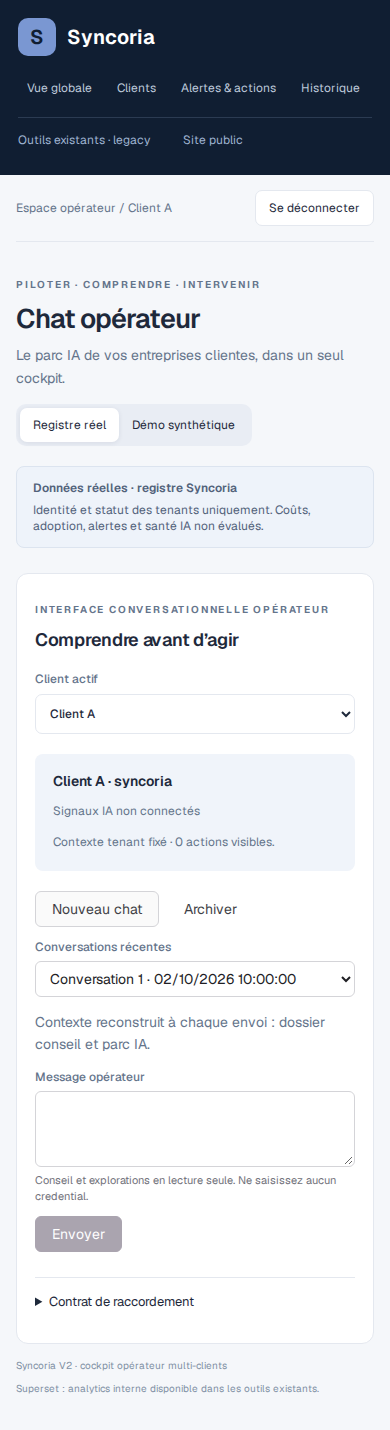
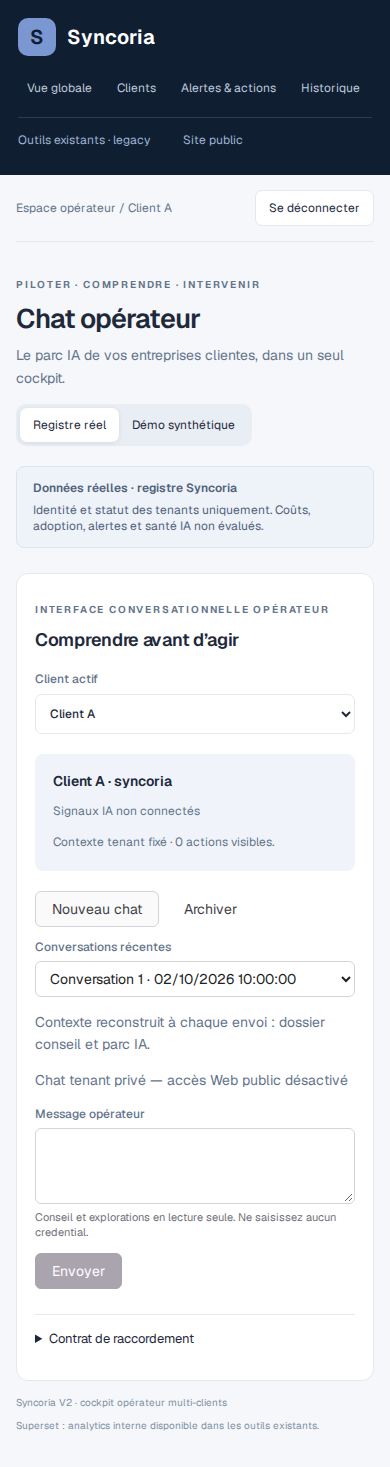
fix: require private tenant chat privacy events

diff --git a/tests/browser/operatorChat.spec.ts b/tests/browser/operatorChat.spec.ts
@@ -31,6 +31,7 @@ function message(role = 'assistant', content = 'Conseil visible', tenant = a) {
 }
 async function connect(page: Page) {
   const state = {
+    publicPrivacy: false,
     foreign: false,
     error: false,
     expired: false,
@@ -111,7 +112,10 @@ async function connect(page: Page) {
             label: 'Exécution sandbox',
             status: 'completed',
           },
-          { type: 'privacy_state_changed', state: 'private' },
+          {
+            type: 'privacy_state_changed',
+            state: state.publicPrivacy ? 'public' : 'private',
+          },
           ...(!state.error && !state.cancel
             ? [
                 {
@@ -146,7 +150,9 @@ async function connect(page: Page) {
     return route.fulfill({ status: 404, json: {} })
   })
   await page.goto('/')
-  await page.getByRole('button', { name: 'Chat opérateur', exact: true }).click()
+  await page
+    .getByRole('button', { name: 'Chat opérateur', exact: true })
+    .click()
   await page.getByLabel('Client actif').selectOption(a)
   return state
 }
@@ -158,6 +164,10 @@ test('new thread, send, confirmed tools, final, resume and archive', async ({
   await expect(
     page.getByText('Contexte tenant fixé', { exact: false }),
   ).toBeVisible()
+  await expect(
+    page.getByText('Chat tenant privé — accès Web public désactivé'),
+  ).toBeVisible()
+  await expect(page.getByText('Recherche publique disponible')).toHaveCount(0)
   await page.getByLabel('Message opérateur').fill('Prépare le rendez-vous')
   await page.getByRole('button', { name: 'Envoyer', exact: true }).click()
   await expect(page.getByText('Conseil visible', { exact: true })).toBeVisible()
@@ -167,11 +177,18 @@ test('new thread, send, confirmed tools, final, resume and archive', async ({
   ).toBeVisible()
   await expect(page.getByText(/2 intégrations disponibles/)).toBeVisible()
   await mkdir('docs/screenshots/operator-chat', { recursive: true })
-  await page.screenshot({ path: 'docs/screenshots/operator-chat/chat-desktop.png', fullPage: true })
+  await page.screenshot({
+    path: 'docs/screenshots/operator-chat/chat-desktop.png',
+    fullPage: true,
+  })
   await page.getByLabel('Conversations récentes').selectOption(thread)
   await expect(
     page.getByText('Historique visible', { exact: true }),
   ).toBeVisible()
+  await expect(
+    page.getByText('Chat tenant privé — accès Web public désactivé'),
+  ).toBeVisible()
+  await expect(page.getByText('Recherche publique disponible')).toHaveCount(0)
   await page.getByRole('button', { name: 'Archiver', exact: true }).click()
   await expect(page.getByLabel('Message opérateur')).toBeDisabled()
   expect(state.archive).toBe(1)
@@ -224,11 +241,19 @@ test('late stream after tenant switch is discarded', async ({ page }) => {
 })
 test('expired operator session returns to login', async ({ page }) => {
   const state = await connect(page)
-  await expect(page.getByLabel('Conversations récentes').locator('option')).toHaveCount(2)
+  await expect(
+    page.getByLabel('Conversations récentes').locator('option'),
+  ).toHaveCount(2)
   state.expired = true
   await page.getByRole('button', { name: 'Nouveau chat' }).click()
-  await expect(page.getByRole('button', { name: 'Nouveau chat' })).toHaveCount(0)
-  await expect(page.getByRole('heading', { name: 'Pilotez le parc IA de vos entreprises clientes.' })).toBeVisible()
+  await expect(page.getByRole('button', { name: 'Nouveau chat' })).toHaveCount(
+    0,
+  )
+  await expect(
+    page.getByRole('heading', {
+      name: 'Pilotez le parc IA de vos entreprises clientes.',
+    }),
+  ).toBeVisible()
 })
 test('mobile and demo never launch runtime', async ({ page }) => {
   const state = await connect(page)
@@ -236,7 +261,10 @@ test('mobile and demo never launch runtime', async ({ page }) => {
   await page.getByRole('button', { name: 'Nouveau chat' }).click()
   await expect(page.getByLabel('Message opérateur')).toBeEnabled()
   await mkdir('docs/screenshots/operator-chat', { recursive: true })
-  await page.screenshot({ path: 'docs/screenshots/operator-chat/chat-390.png', fullPage: true })
+  await page.screenshot({
+    path: 'docs/screenshots/operator-chat/chat-390.png',
+    fullPage: true,
+  })
   expect(
     await page.evaluate(
       () => document.documentElement.scrollWidth <= innerWidth,
@@ -247,4 +275,19 @@ test('mobile and demo never launch runtime', async ({ page }) => {
     page.getByText('Runtime réel indisponible sur les fixtures'),
   ).toBeVisible()
   expect(state.sends).toBe(0)
+})
+
+test('public privacy event fails closed in tenant chat', async ({ page }) => {
+  const state = await connect(page)
+  state.publicPrivacy = true
+  await page.getByRole('button', { name: 'Nouveau chat' }).click()
+  await page.getByLabel('Message opérateur').fill('Message client privé')
+  await page.getByRole('button', { name: 'Envoyer', exact: true }).click()
+  await expect(page.getByText('Conseil visible', { exact: true })).toHaveCount(
+    0,
+  )
+  await expect(page.getByText('Recherche publique disponible')).toHaveCount(0)
+  await expect(
+    page.getByText('Chat tenant privé — accès Web public désactivé'),
+  ).toBeVisible()
 })

diff --git a/src/controlPlane/RealOperatorChat.tsx b/src/controlPlane/RealOperatorChat.tsx
@@ -25,7 +25,9 @@ export function RealOperatorChat({
   const [content, setContent] = useState('')
   const [busy, setBusy] = useState(false)
   const [activity, setActivity] = useState('')
-  const [privacy, setPrivacy] = useState('')
+  const [privacy, setPrivacy] = useState(
+    'Chat tenant privé — accès Web public désactivé',
+  )
   const [context, setContext] = useState(
     'Contexte reconstruit à chaque envoi : dossier conseil et parc IA.',
   )
@@ -98,7 +100,7 @@ export function RealOperatorChat({
       setMessages([])
       setBefore(null)
       setActivity('')
-      setPrivacy('')
+      setPrivacy('Chat tenant privé — accès Web public désactivé')
     })
   const resume = (threadId: string, cursor?: string) =>
     run(async (signal) => {
@@ -108,7 +110,7 @@ export function RealOperatorChat({
         setBefore(null)
         setContent('')
         setActivity('')
-        setPrivacy('')
+        setPrivacy('Chat tenant privé — accès Web public désactivé')
       }
       if (!threadId) return
       const snapshot: unknown = await (
@@ -157,7 +159,7 @@ export function RealOperatorChat({
       if (!current || !content.trim()) return
       const text = content
       setActivity('Analyse en cours…')
-      setPrivacy('')
+      setPrivacy('Chat tenant privé — accès Web public désactivé')
       const response = await chatRequest(
         apiBaseUrl,
         tenantId,
@@ -183,11 +185,7 @@ export function RealOperatorChat({
             `${event.label} · ${event.status === 'running' ? 'en cours' : event.status === 'completed' ? 'terminé' : 'échec'}`,
           )
         if (event.type === 'privacy_state_changed')
-          setPrivacy(
-            event.state === 'public'
-              ? 'Recherche publique disponible'
-              : 'Session privée — accès Web public désactivé',
-          )
+          setPrivacy('Session privée — accès Web public désactivé')
         if (event.type === 'completed') setActivity('Terminé')
         if (event.type === 'cancelled') setActivity('Réponse interrompue')
         if (event.type === 'error') {
@@ -227,7 +225,7 @@ export function RealOperatorChat({
         setMessages([])
         setBefore(null)
         setActivity('')
-        setPrivacy('')
+        setPrivacy('Chat tenant privé — accès Web public désactivé')
       }
     })
   return (

diff --git a/src/api/operatorChat.ts b/src/api/operatorChat.ts
@@ -31,7 +31,7 @@ export type ChatEvent =
       partial: boolean
     }
   | { type: 'runtime_state'; status: 'running' }
-  | { type: 'privacy_state_changed'; state: 'public' | 'private' }
+  | { type: 'privacy_state_changed'; state: 'private' }
   | {
       type: 'tool_started' | 'tool_completed'
       tool: string
@@ -164,8 +164,7 @@ export function parseChatEvent(
       break
     case 'privacy_state_changed':
       exact(row, ['type', 'state'])
-      if (!['public', 'private'].includes(String(row.state)))
-        throw new Error('invalid_response')
+      if (row.state !== 'private') throw new Error('invalid_response')
       break
     case 'tool_started':
     case 'tool_completed': {

diff --git a/docs/AI_CONTROL_PLANE_V2.md b/docs/AI_CONTROL_PLANE_V2.md
@@ -115,7 +115,11 @@ L’API backend compose conseil/estate/intégrations ; le frontend envoie seulem
 le texte utilisateur et les IDs de route. Texte assistant final validé, sans
 reasoning, arguments/output tool ni faux streaming modèle. Les tools affichent
 nom/label/statut allowlistés ; le texte est rendu comme texte, jamais comme HTML.
-Contexte discret et indication PUBLIC/PRIVATE. Les APIs advisory/estate et les
+Contexte discret et chat tenant privé dès l’ouverture ; confirmation PRIVATE
+avant injection du contexte. Tout événement PUBLIC est refusé. Web direct
+désactivé ; Python/workspace/MCP restent disponibles. Public Research Tool
+isolé, sans contexte client et avec approbation explicite de la requête par
+l’opérateur : différé, aucun bouton ni recherche automatique dans cette V1. Les APIs advisory/estate et les
 parcours legacy restent accessibles. Migration backend 043 et broker avec mode
 chat requis avant activation opérationnelle ; aucune configuration privée côté
 frontend. Rétention : archive manuelle, pas de suppression automatique.
